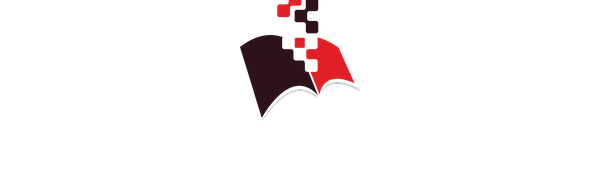
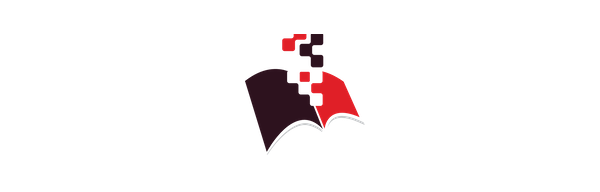
Onboarding Customize
Größe des Fensters bei Onboarding, Logo in Onboarding, Texte im Onboarding übersetzen

Changed region(s): [[0.39, 0.0, 0.6, 0.7812]]

diff --git a/app/features/onboarding/components/ConferenceURLSpotlight.js b/app/features/onboarding/components/ConferenceURLSpotlight.js
@@ -42,14 +42,15 @@ class ConferenceURLSpotlight extends Component<Props, *> {
                 actions = { [
                     {
                         onClick: this._next,
-                        text: 'Next'
+                        text: 'Weiter'
                     }
                 ] }
                 dialogPlacement = 'bottom center'
                 target = { 'conference-url' } >
-                Enter the name (or full URL) of the room you want to join. You
-                may make a name up, just let others know so they enter the same
-                name.
+                Geben Sie den Namen der Konferenz ein, an welcher Sie teilnehmen
+                moechten. Als Moderator (Sie muessen sich dann anmelden) koennen
+                Sie einfach einen neuen Namen eingeben und die Konferenz eroeffnen.
+                Teilen Sie den Namen der Konferenz dann den anderen Teilnehmern mit.
             </Spotlight>
         );
     }

diff --git a/app/features/onboarding/components/EmailSettingSpotlight.js b/app/features/onboarding/components/EmailSettingSpotlight.js
@@ -42,13 +42,16 @@ class EmailSettingSpotlight extends Component<Props, *> {
                 actions = { [
                     {
                         onClick: this._next,
-                        text: 'Next'
+                        text: 'Weiter'
                     }
                 ] }
                 dialogPlacement = 'left top'
                 target = { 'email-setting' } >
-                The email you enter here will be part of your user profile and
-                it will be used to display your stored avatar in gravatar.com .
+                Die E-Mail Adresse, die Sie hier eingeben, wird benutzt, um einen
+                Avatar von gravatar.com zu holen und anzuzeigen, wenn Sie kein
+                Videobild veroeffentlichen. Sie muessen hier keine E-Mail Adresse
+                eingeben, wenn Sie das nicht moechten, dann werden Ihre Initialen
+                angezeigt.
             </Spotlight>
         );
     }

diff --git a/app/features/onboarding/components/AlwaysOnTopWindowSpotlight.js b/app/features/onboarding/components/AlwaysOnTopWindowSpotlight.js
@@ -44,14 +44,14 @@ class AlwaysOnTopWindowSpotlight extends Component<Props, *> {
                 actions = { [
                     {
                         onClick: this._next,
-                        text: 'Next'
+                        text: 'Weiter'
                     }
                 ] }
                 dialogPlacement = 'left top'
                 target = { 'always-on-top-window' } >
-                You can toggle whether you want to enable the "always-on-top" window,
-                which is displayed when the main window loses focus.
-                This will be applied to all conferences.
+                Wenn Sie zu einer anderen Anwendung wechseln, blendet der Konferenzserver
+                ein kleines Fenster rechts oben ein, in welchem Sie die Konferenz weiter
+                verfolgen koennen. Das koennen Sie hier ausschalten.
             </Spotlight>
         );
     }

diff --git a/app/features/onboarding/components/ServerSettingSpotlight.js b/app/features/onboarding/components/ServerSettingSpotlight.js
@@ -42,13 +42,14 @@ class ServerSettingSpotlight extends Component<Props, *> {
                 actions = { [
                     {
                         onClick: this._next,
-                        text: 'Next'
+                        text: 'Weiter'
                     }
                 ] }
                 dialogPlacement = 'left top'
                 target = { 'server-setting' } >
-                This will be the server where your conferences will take place.
-                You can use your own, but you don't need to!
+                Hier geben Sie den Namen des Servers ein, den Sie verwenden
+                moechten. Unser Server konferenz.pohle.de ist bereits
+                voreingestellt.
             </Spotlight>
         );
     }

diff --git a/app/features/onboarding/components/StartMutedTogglesSpotlight.js b/app/features/onboarding/components/StartMutedTogglesSpotlight.js
@@ -42,13 +42,13 @@ class StartMutedTogglesSpotlight extends Component<Props, *> {
                 actions = { [
                     {
                         onClick: this._next,
-                        text: 'Next'
+                        text: 'Weiter'
                     }
                 ] }
                 dialogPlacement = 'left top'
                 target = { 'start-muted-toggles' } >
-                You can toggle if you want to start with your audio or video
-                muted here. This will be applied to all conferences.
+                Sie koennen hier einstellen, dass Sie immer mit ausgeschaltetem Ton
+                und Video in Konferenzen starten, wenn Ihnen das lieber ist.
             </Spotlight>
         );
     }

diff --git a/app/features/onboarding/components/NameSettingSpotlight.js b/app/features/onboarding/components/NameSettingSpotlight.js
@@ -42,13 +42,13 @@ class NameSettingSpotlight extends Component<Props, *> {
                 actions = { [
                     {
                         onClick: this._next,
-                        text: 'Next'
+                        text: 'Weiter'
                     }
                 ] }
                 dialogPlacement = 'left top'
                 target = { 'name-setting' } >
-                This will be your display name, others will see you with this
-                name.
+                Geben Sie hier den Namen ein, den andere Teilnehmer sehen
+                sollen.
             </Spotlight>
         );
     }

diff --git a/app/features/onboarding/components/OnboardingModal.js b/app/features/onboarding/components/OnboardingModal.js
@@ -52,10 +52,10 @@ class OnboardingModal extends Component<Props, *> {
                     },
                     {
                         onClick: this._skip,
-                        text: 'Überspringen'
+                        text: 'Ueberspringen'
                     }
                 ] }
-                heading = { `Willkommen zu ${config.appName}` }
+                heading = { `Willkommen zum ${config.appName}` }
                 image = { OnboardingModalImage } >
                 <p> Sehen Sie sich die wichtigsten Funktionen an!</p>
             </Modal>

diff --git a/app/features/onboarding/components/SettingsDrawerSpotlight.js b/app/features/onboarding/components/SettingsDrawerSpotlight.js
@@ -45,7 +45,7 @@ class SettingsDrawerSpotlight extends Component<Props, *> {
                 dialogPlacement = 'right top'
                 target = { 'settings-drawer-button' }
                 targetOnClick = { this._next }>
-                Click here to open the settings drawer.
+                Klicken Sie hier, um die Einstellungen zu oeffnen.
             </Spotlight>
         );
     }
